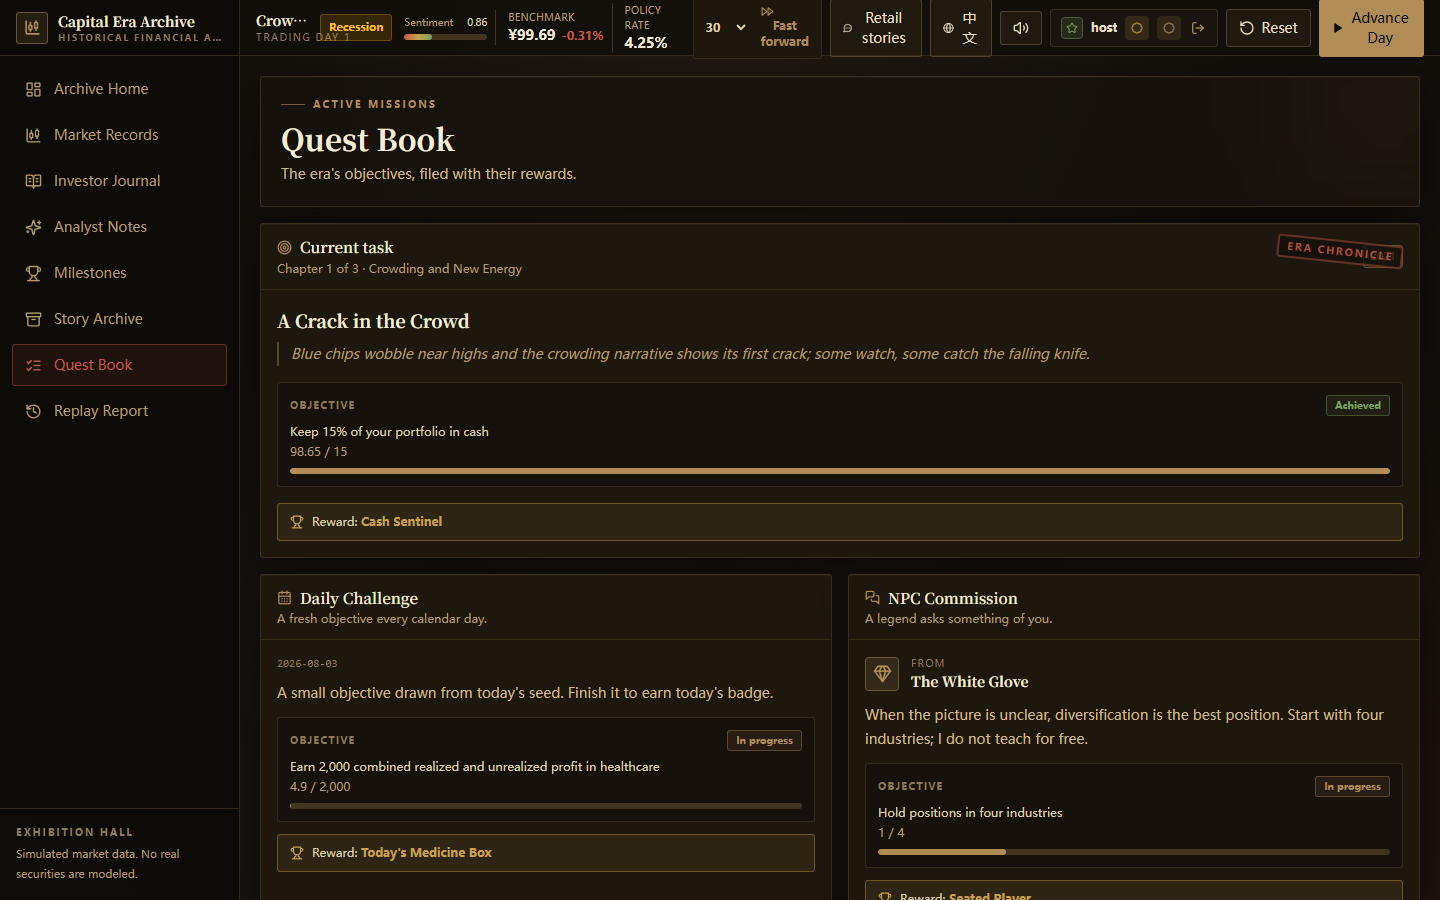
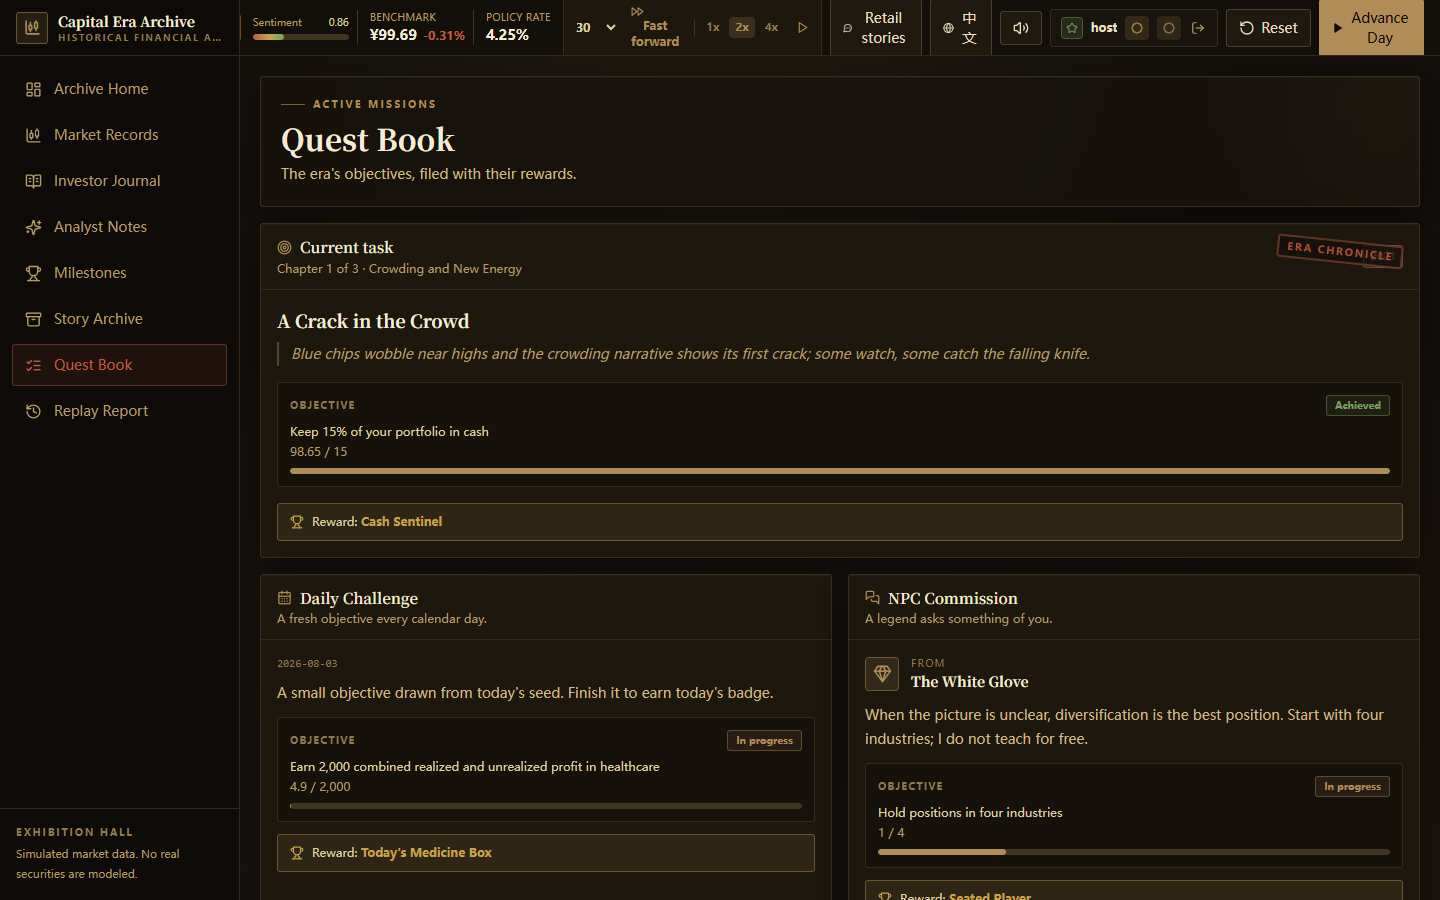
Add auto-play countdown mode with speed control

Changed region(s): [[0.1562, 0.0, 0.4688, 0.0622], [0.5, 0.0, 0.5625, 0.0622]]

diff --git a/frontend/src/components/layout/AppShell.jsx b/frontend/src/components/layout/AppShell.jsx
@@ -10,6 +10,7 @@ import {
   ListChecks,
   LogOut,
   MessageCircleMore,
+  Pause,
   Play,
   RotateCcw,
   Sparkles,
@@ -96,6 +97,10 @@ function TopBar() {
     chronicle,
     muted,
     toggleMute,
+    autoPlay,
+    autoSpeed,
+    toggleAutoPlay,
+    setAutoSpeed,
   } = useApp();
   const [fastDays, setFastDays] = useState(30);
   const market = gameState?.market;
@@ -112,8 +117,8 @@ function TopBar() {
   };
 
   return (
-    <header className="flex h-14 shrink-0 items-center justify-between gap-3 border-b border-ink-600/70 bg-ink-900/90 px-4">
-      <div className="flex min-w-0 items-center gap-3">
+    <header className="flex h-14 shrink-0 items-center gap-3 overflow-x-auto border-b border-ink-600/70 bg-ink-900/90 px-4">
+      <div className="flex shrink-0 items-center gap-3">
         <div className="min-w-0">
           <p className="truncate font-display text-sm font-bold text-parch-100">
             {market?.date ? `${era.label} · ${market.date}` : era.label}
@@ -180,7 +185,33 @@ function TopBar() {
                 title={t("topbar.fastForward")}
               >
                 <FastForward size={13} />
-                <span className="hidden lg:inline">{t("topbar.fastForward")}</span>
+                <span className="hidden xl:inline">{t("topbar.fastForward")}</span>
+              </button>
+              <span className="mx-0.5 h-4 w-px bg-ink-600" />
+              {[1, 2, 4].map((speed) => (
+                <button
+                  key={speed}
+                  onClick={() => setAutoSpeed(speed)}
+                  className={`rounded px-1.5 py-0.5 text-[11px] font-semibold tabular transition-colors ${
+                    autoSpeed === speed
+                      ? "bg-brass/20 text-brass"
+                      : "text-parch-600 hover:text-parch-300"
+                  }`}
+                  title={t("topbar.autoSpeed")}
+                >
+                  {speed}x
+                </button>
+              ))}
+              <button
+                onClick={toggleAutoPlay}
+                className={`rounded px-2 py-1 transition-colors ${
+                  autoPlay
+                    ? "bg-risk/15 text-risk"
+                    : "text-brass hover:bg-brass/10"
+                }`}
+                title={autoPlay ? t("topbar.autoStop") : t("topbar.auto")}
+              >
+                {autoPlay ? <Pause size={13} /> : <Play size={13} />}
               </button>
             </div>
           </>
@@ -191,7 +222,7 @@ function TopBar() {
           title={t("story.button")}
         >
           <MessageCircleMore size={16} />
-          <span className="hidden sm:inline">{t("story.button")}</span>
+          <span className="hidden xl:inline">{t("story.button")}</span>
         </button>
         <button
           onClick={() => setLang(lang === "en" ? "zh" : "en")}
@@ -199,7 +230,7 @@ function TopBar() {
           title={lang === "en" ? "切换中文" : "Switch to English"}
         >
           <Globe size={16} />
-          <span className="hidden sm:inline">{lang === "en" ? "中文" : "EN"}</span>
+          <span className="hidden xl:inline">{lang === "en" ? "中文" : "EN"}</span>
         </button>
         <button
           onClick={toggleMute}

diff --git a/frontend/src/store/AppContext.jsx b/frontend/src/store/AppContext.jsx
@@ -70,6 +70,8 @@ export function AppProvider({ children }) {
   const [muted, setMutedState] = useState(
     () => localStorage.getItem("cms-muted") === "1"
   );
+  const [autoPlay, setAutoPlay] = useState(false);
+  const [autoSpeed, setAutoSpeed] = useState(2);
   const toastId = useRef(0);
   const achievementsRef = useRef(null);
   const didInit = useRef(false);
@@ -357,7 +359,7 @@ export function AppProvider({ children }) {
     [refreshAll, loadMarket]
   );
 
-  const advanceDay = useCallback(async (days = 1) => {
+  const advanceDay = useCallback(async (days = 1, options = {}) => {
     if (busy) return;
     const count = Number.isFinite(days) ? Math.max(1, Math.min(250, Math.round(days))) : 1;
     setBusy(true);
@@ -399,7 +401,9 @@ export function AppProvider({ children }) {
           sounds.loss();
         }
       });
-      sounds.advance();
+      if (!options.silent) {
+        sounds.advance();
+      }
       if ((result.portfolio?.summary?.daily_pnl || 0) > 0) {
         sounds.money();
       } else if ((result.portfolio?.summary?.daily_pnl || 0) < 0) {
@@ -412,7 +416,8 @@ export function AppProvider({ children }) {
       if (
         todayStory &&
         result.days_advanced === 1 &&
-        result.result?.day % 5 === 1
+        result.result?.day % 5 === 1 &&
+        !options.silent
       ) {
         setStoryOpen(true);
       }
@@ -422,6 +427,30 @@ export function AppProvider({ children }) {
       setBusy(false);
     }
   }, [busy, refreshAll, loadMarket, announceUnlocks, loadStory, addToast, t]);
+
+  const toggleAutoPlay = useCallback(() => {
+    setAutoPlay((current) => !current);
+  }, []);
+
+  useEffect(() => {
+    if (!autoPlay) return undefined;
+    const timer = window.setInterval(() => {
+      if (busy || storyOpen || chronicleOpen || eraTransition || blackSwan) {
+        return;
+      }
+      advanceDay(1, { silent: true });
+    }, 3000 / autoSpeed);
+    return () => window.clearInterval(timer);
+  }, [
+    autoPlay,
+    autoSpeed,
+    busy,
+    storyOpen,
+    chronicleOpen,
+    eraTransition,
+    blackSwan,
+    advanceDay,
+  ]);
 
   const executeTrade = useCallback(
     async (action, ticker, shares, displayName) => {
@@ -527,6 +556,10 @@ export function AppProvider({ children }) {
       closeBlackSwan,
       muted,
       toggleMute,
+      autoPlay,
+      autoSpeed,
+      toggleAutoPlay,
+      setAutoSpeed,
       resolveBlackSwanOption,
       applyEraBonus,
       openStory,
@@ -576,6 +609,10 @@ export function AppProvider({ children }) {
       closeBlackSwan,
       muted,
       toggleMute,
+      autoPlay,
+      autoSpeed,
+      toggleAutoPlay,
+      setAutoSpeed,
       resolveBlackSwanOption,
       applyEraBonus,
       openStory,

diff --git a/frontend/src/i18n/translations.js b/frontend/src/i18n/translations.js
@@ -25,6 +25,9 @@ export const translations = {
     "topbar.logout": "Logout",
     "topbar.soundOn": "Sound on",
     "topbar.soundOff": "Sound off",
+    "topbar.auto": "Auto play",
+    "topbar.autoStop": "Stop",
+    "topbar.autoSpeed": "Auto speed",
     "topbar.advanceTitle": "Simulate one trading day",
     "topbar.running": "Running…",
     "topbar.resetConfirm": "Reset the market and start again with ¥100,000?",
@@ -458,6 +461,9 @@ export const translations = {
     "topbar.logout": "退出",
     "topbar.soundOn": "开启音效",
     "topbar.soundOff": "关闭音效",
+    "topbar.auto": "自动推进",
+    "topbar.autoStop": "停止",
+    "topbar.autoSpeed": "自动速度",
     "topbar.advanceTitle": "模拟一个交易日",
     "topbar.running": "运行中…",
     "topbar.resetConfirm": "确定要重置市场，并以 ¥100,000 重新开始吗？",

diff --git a/README.md b/README.md
@@ -52,6 +52,8 @@ Every price move is real history, replayed day by day.
   moments
 - **Judgment validation**: tag each buy with a thesis; the market later rules
   it right or wrong with a golden toast or a face-slap, building a seer streak
+- **Auto play**: a countdown-driven live market mode with 1x/2x/4x speed, so a
+  fast run takes about 10-15 minutes and events pause the action
 - **A-share rules**: 10%/20% daily price limits, T+1 settlement, commissions,
   minimum fees, and 0.05% sell-side stamp duty
 - **Order-book microstructure**: every stock has live bid/ask depth; large
